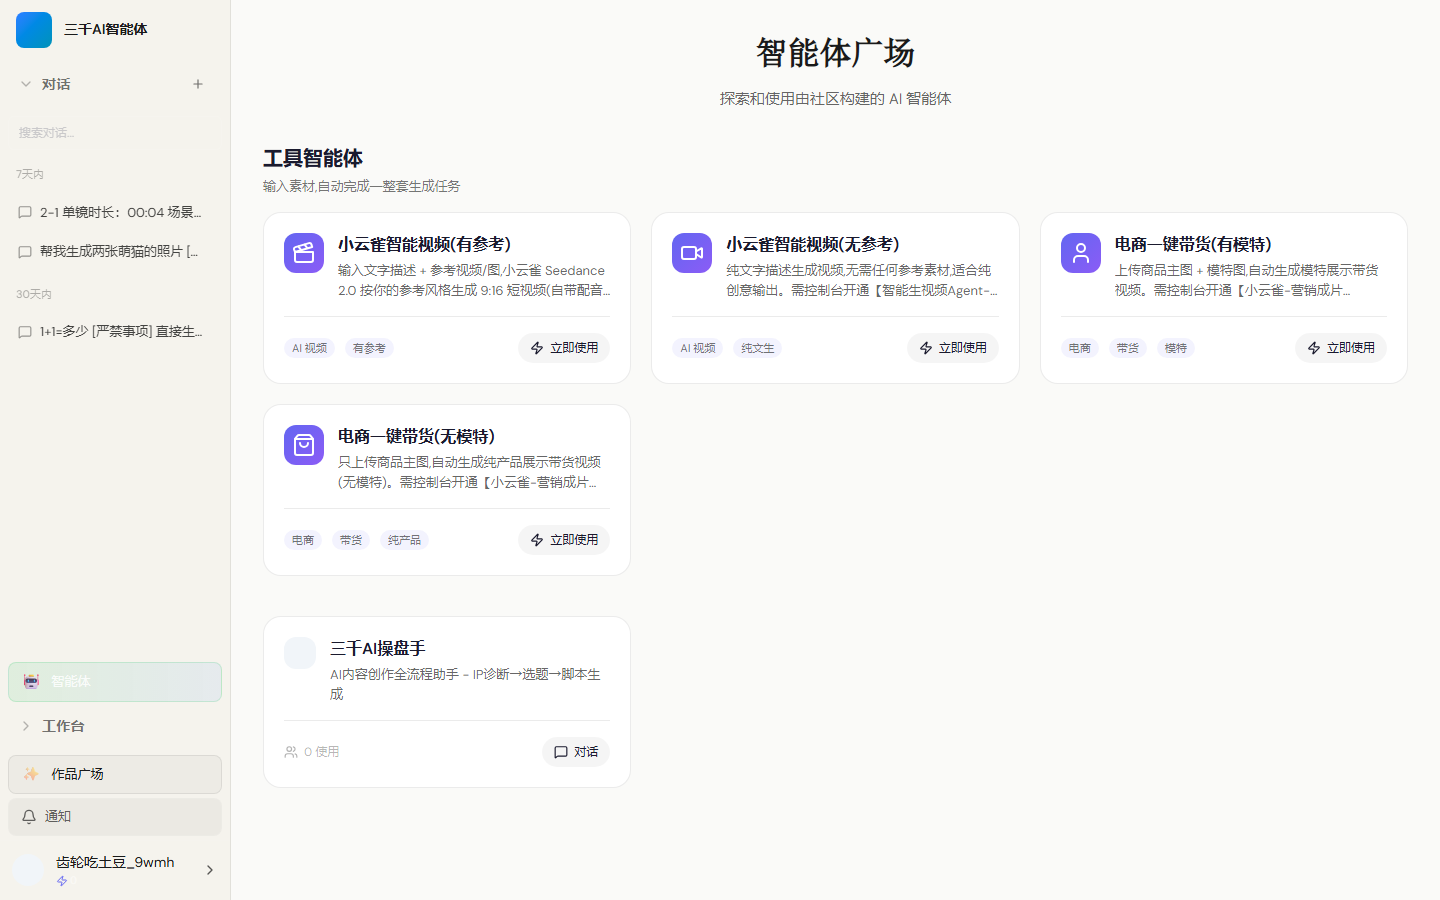
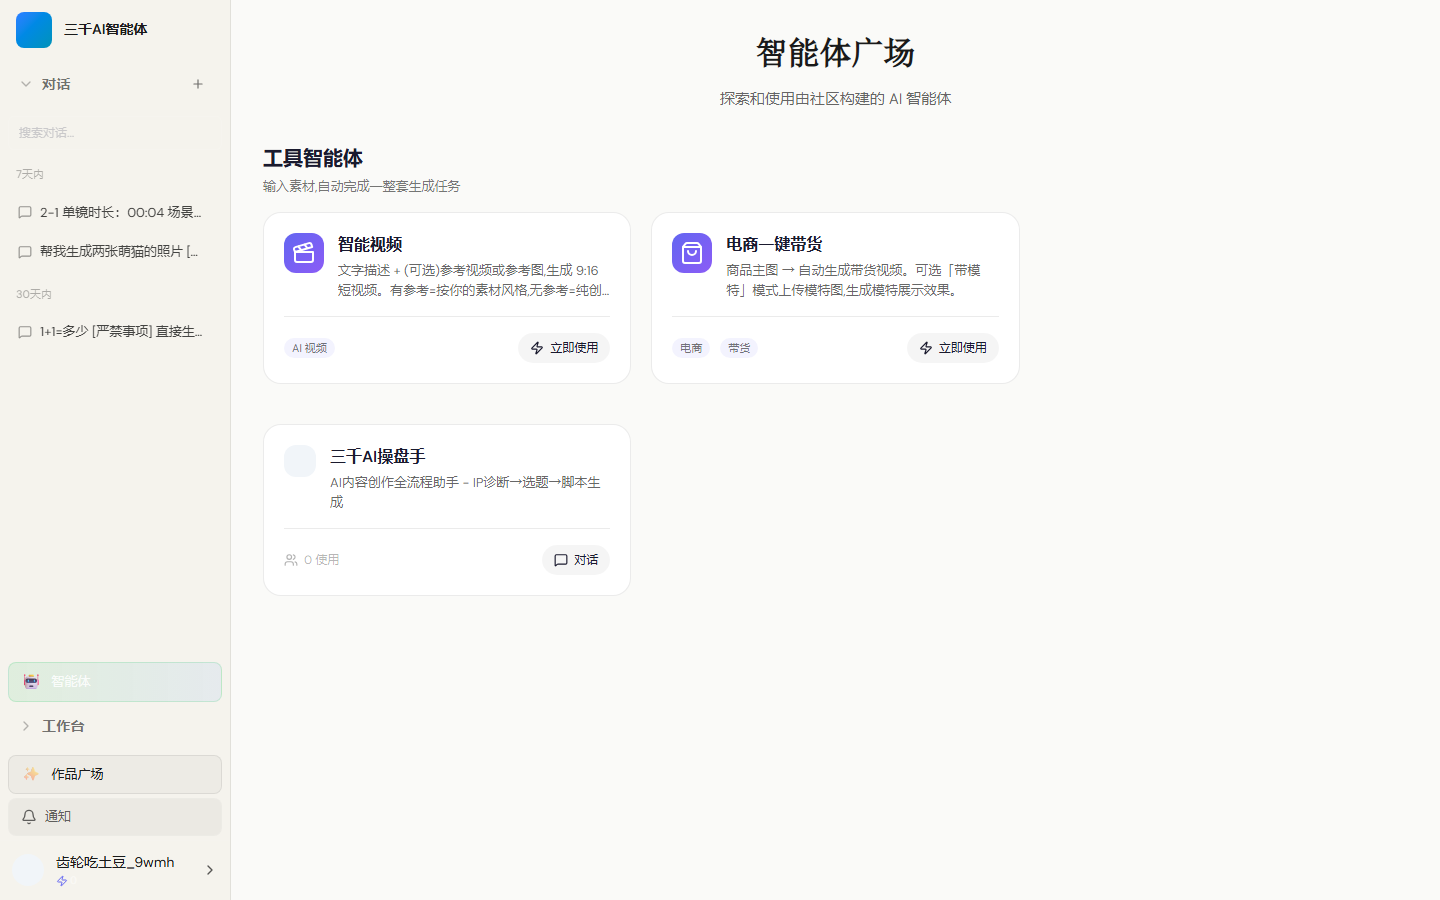
docs(智能体广场): 同步合并简化后的智能体卡片
- 旧 4 张卡 (云雀视频有/无参考 + 电商带货有/无模特) 合并为 2 张:
  · 智能视频 (有参考/无参考二选一参数化)
  · 电商一键带货 (带模特/无模特参数化)
- 三千AI操盘手保留
- 删除已下线的「复制爆款视频」描述
- 05-assistants.png 重新截图，对齐 v1.0.5 实拍
- README & product.md 智能体广场段全部按实拍文案重写

diff --git a/docs/product.md b/docs/product.md
@@ -98,18 +98,24 @@ Aabao 全模态 · Aabao Sora 按次 · Aabao Gemini · ePhone API · ePhone Kli
 
 ### 四、智能体广场 · 持续上新的 AI 工具集
 
-**社区共建 + 官方持续上新**。从「三千AI操盘手」到「复制爆款视频」,智能体广场不断添加新能力,用户开箱即用。
+**社区共建 + 官方持续上新**。智能体广场提供开箱即用的多场景 AI 工具,登录即用,无需配置。
 
-> 上面只是当前在线的几个智能体。**管理员可在后台自由创建任意 Agent**,配置专属提示词、知识库、MCP 工具 —— 智能体列表完全自定义。新智能体持续上新中。
+> **管理员可在后台自由创建任意 Agent**,配置专属提示词、知识库、MCP 工具 —— 智能体列表完全自定义。新智能体持续上新中。
 
-| 当前精选 | 用途 |
-|---|---|
-| 🤖 **三千AI操盘手** | AI 内容创作全流程助手:IP 诊断 → 选题 → 脚本生成 |
-| 🎬 **复制爆款视频** | 粘贴抖音 / TikTok 视频链接,自动改写文案并生成新视频 |
-| 🛠 **工具智能体** | 输入素材,自动完成一整套生成任务 |
-| ✨ **持续上新中** | 短视频、爆款、电商、口播…新智能体陆续接入 |
+#### 工具智能体
 
-![智能体广场](./screenshots/13-admin-agent.png)
+输入素材,自动完成一整套生成任务。
+
+| 智能体 | 能力 | 标签 |
+|---|---|---|
+| 🎬 **智能视频** | 文字描述 + (可选)参考视频或参考图,生成 9:16 短视频。**有参考 = 按你的素材风格 · 无参考 = 纯创意** | `AI 视频` |
+| 🛍 **电商一键带货** | 商品主图 → 自动生成带货视频。可选「带模特」模式上传模特图,生成模特展示效果 | `电商` `带货` |
+
+#### 操盘手智能体
+
+- **三千AI操盘手** —— AI 内容创作全流程助手:**IP 诊断 → 选题 → 脚本生成**
+
+![智能体广场](./screenshots/05-assistants.png)
 
 ---
 

diff --git a/README.md b/README.md
@@ -91,14 +91,24 @@
 
 ### 4⃣ 智能体广场 · 持续上新的 AI 工具集
 
-**社区共建 + 官方持续上新**。从「三千AI操盘手」到「复制爆款视频」,智能体广场不断添加新能力,用户开箱即用。
+**社区共建 + 官方持续上新**。智能体广场提供开箱即用的多场景 AI 工具,登录即用,无需配置。
 
-- 🤖 **三千AI操盘手** —— AI 内容创作全流程助手:IP 诊断 → 选题 → 脚本生成
-- 🎬 **复制爆款视频** —— 粘贴抖音 / TikTok 视频链接,自动改写文案并生成新视频
-- 🛠 **工具智能体** —— 输入素材,自动完成一整套生成任务
-- ✨ **持续上新中** —— 短视频、爆款、电商、口播…新智能体陆续接入
+#### 🛠 工具智能体 · 输入素材,自动完成一整套生成任务
 
-![智能体广场](./screenshots/13-admin-agent.png)
+| 智能体 | 能力 | 标签 |
+|---|---|---|
+| 🎬 **智能视频** | 文字描述 + (可选)参考视频或参考图,生成 9:16 短视频 · **有参考 = 按你的素材风格 · 无参考 = 纯创意** | `AI 视频` |
+| 🛍 **电商一键带货** | 商品主图 → 自动生成带货视频 · 可选「带模特」模式上传模特图,生成模特展示效果 | `电商` `带货` |
+
+#### 🤖 操盘手智能体
+
+- **三千AI操盘手** —— AI 内容创作全流程助手:**IP 诊断 → 选题 → 脚本生成**
+
+#### ✨ 持续上新中
+
+新场景智能体陆续接入,管理员也可在后台自由创建任意 Agent,配置专属提示词、知识库、MCP 工具 —— 智能体列表完全自定义。
+
+![智能体广场](./screenshots/05-assistants.png)
 
 ---
 
